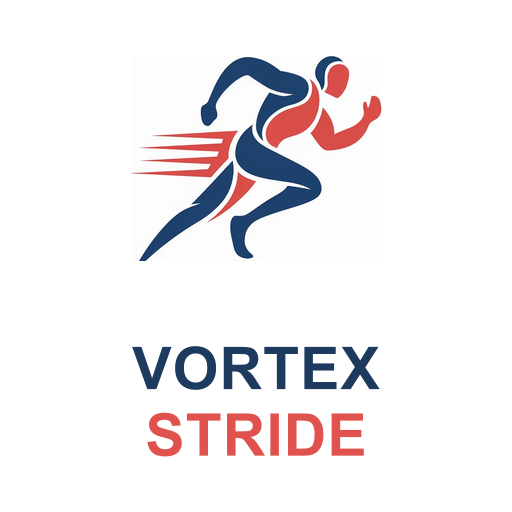
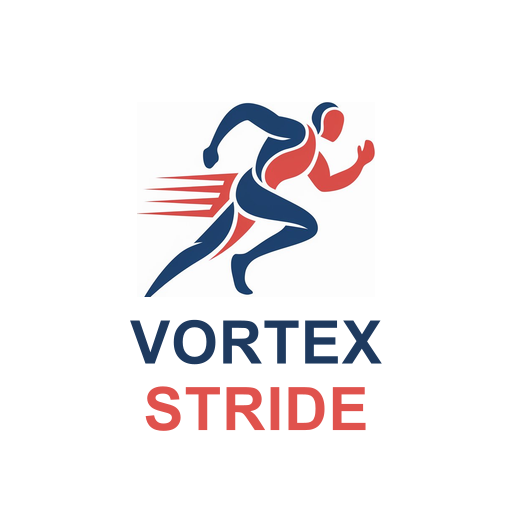
style(pwa): icona — runner avvicinato alla scritta, gruppo centrato
Ridotto lo stacco tra runner e "VORTEX STRIDE": runner spostato a
top 20% (era 11%) e testo risalito a y 71%/84% (era 76%/89%).
Il blocco runner+testo ora è visivamente compatto e centrato,
meno spazio bianco. Solo icone "any"; le maskable (runner-only)
restano invariate.

SW: cache v10 → v11.

Changed region(s): [[0.25, 0.0938, 0.75, 0.5938], [0.25, 0.625, 0.75, 0.9062]]

diff --git a/public/sw.js b/public/sw.js
@@ -25,7 +25,8 @@
 //   v8 → Pagina Archivio (calendario mensile + dettaglio giorno)
 //   v9 → Icone maskable separate (runner 60% safe-zone, niente tagli)
 //   v10 → Icona "any" finale: runner + scritta VORTEX STRIDE (Opzione B)
-const CACHE_NAME  = 'didio-v10';
+//   v11 → Icona: runner avvicinato alla scritta (meno spazio bianco)
+const CACHE_NAME  = 'didio-v11';
 const OFFLINE_URL = '/offline.html';
 
 const PRECACHE = [